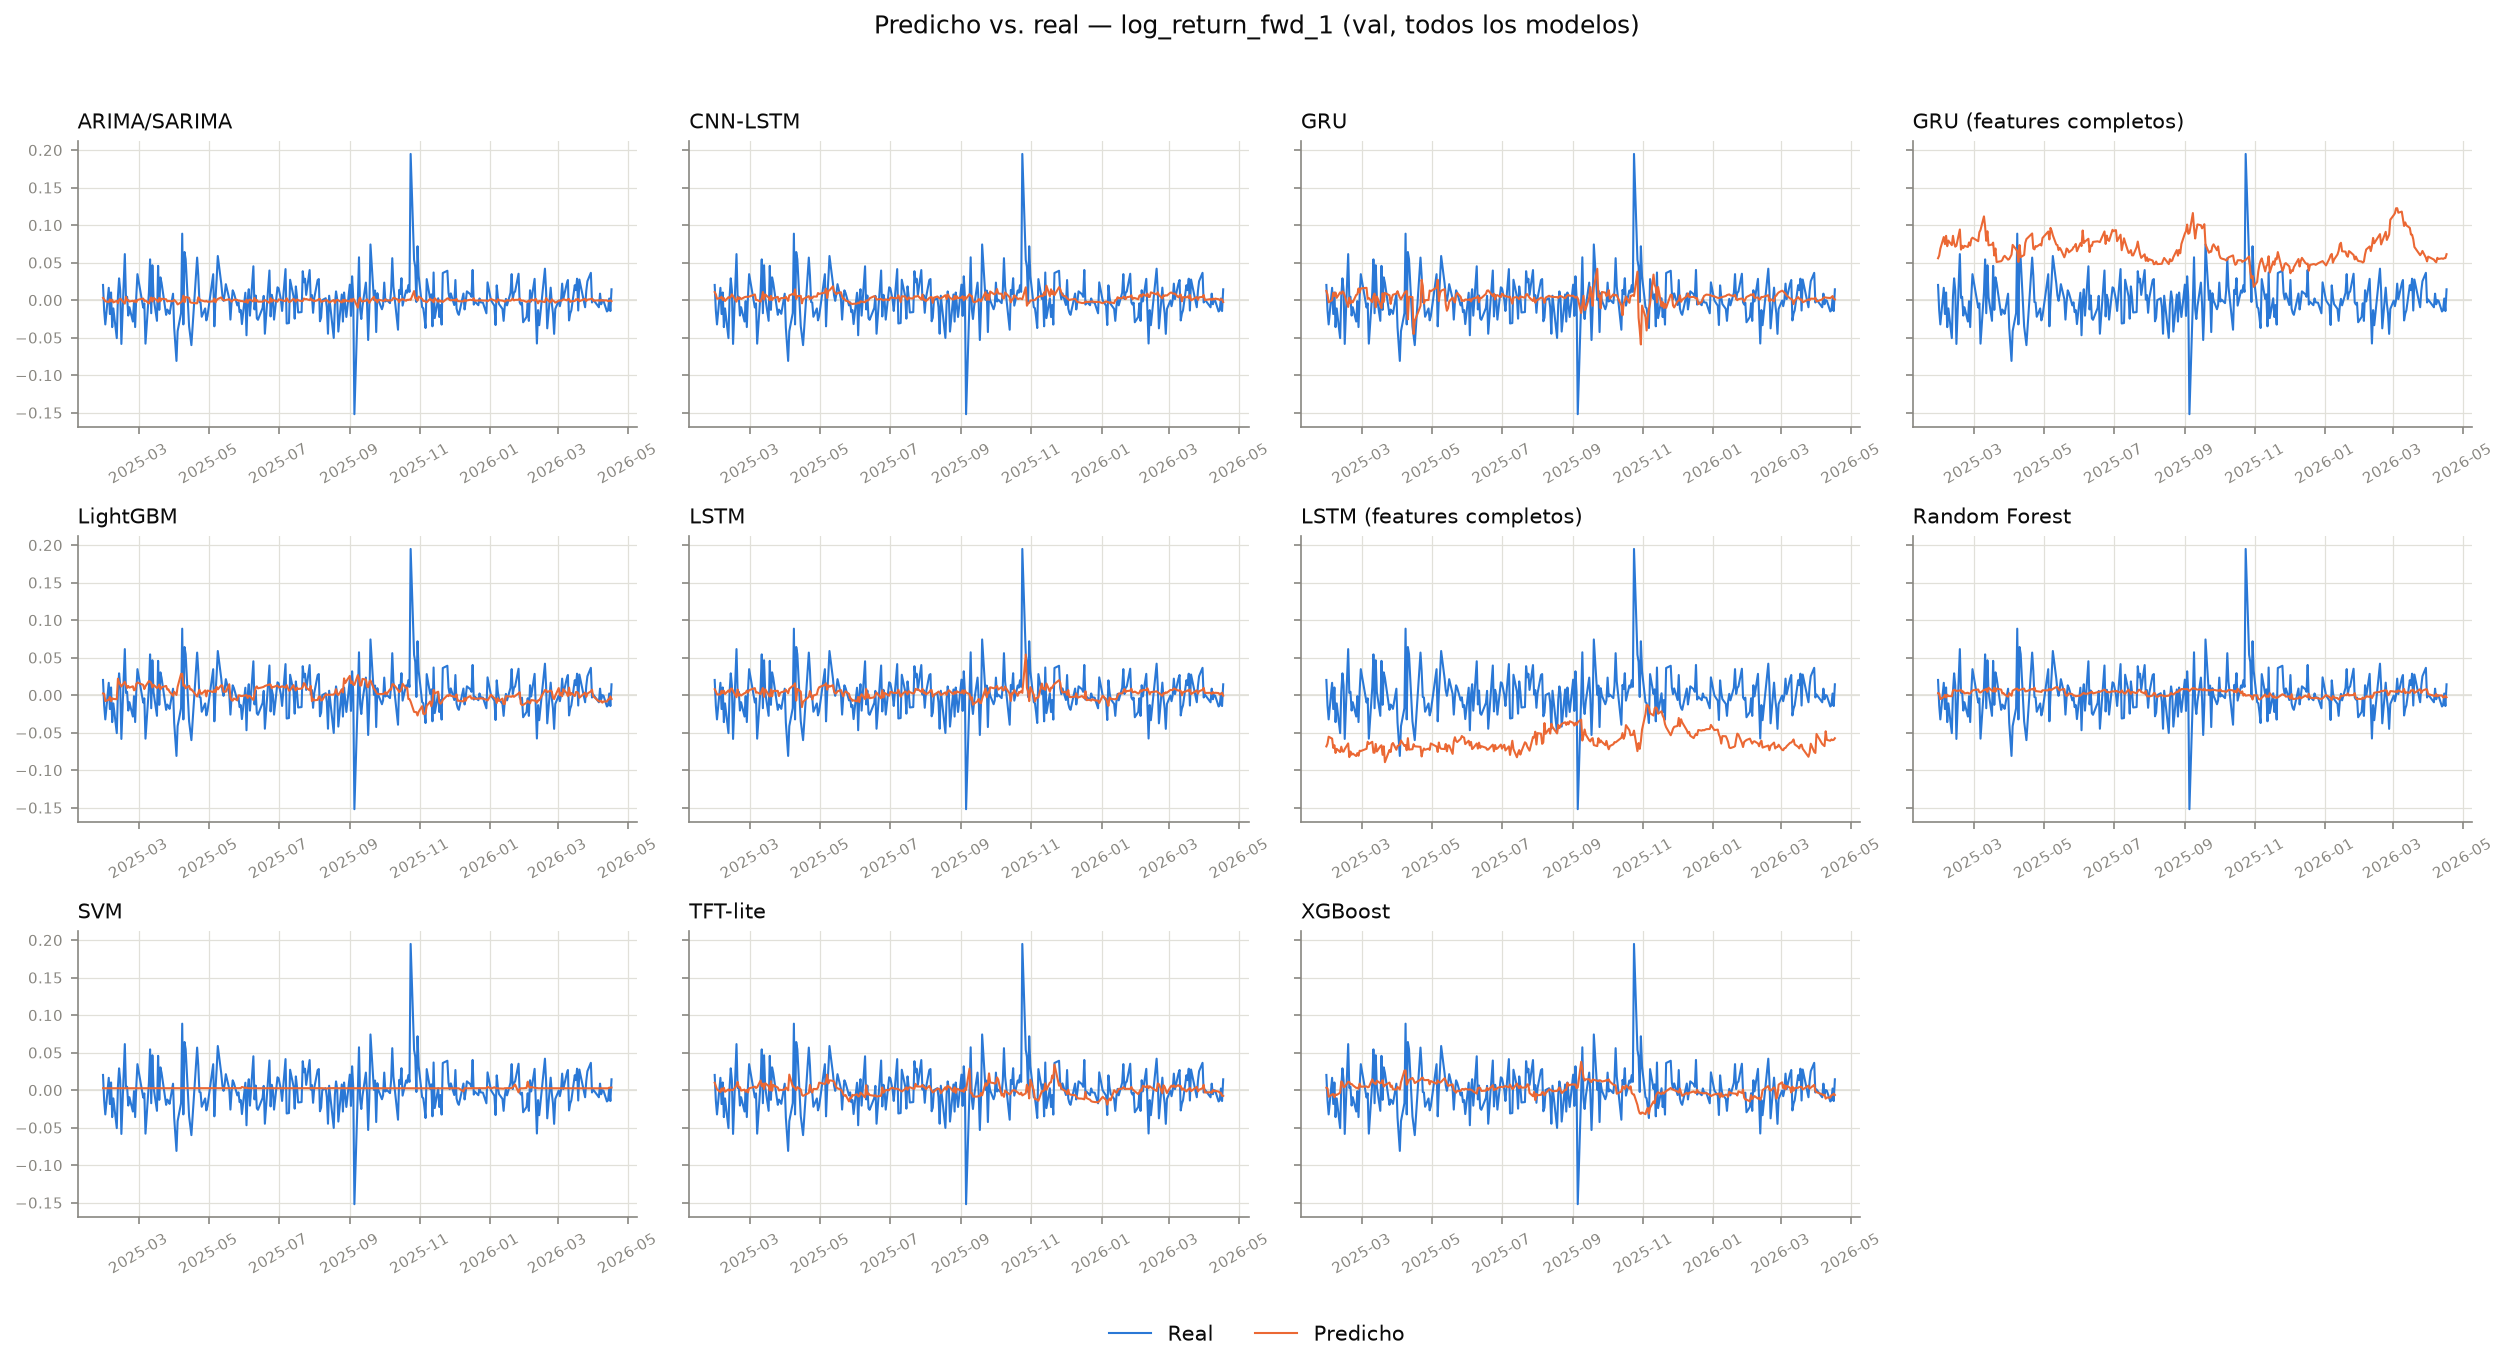
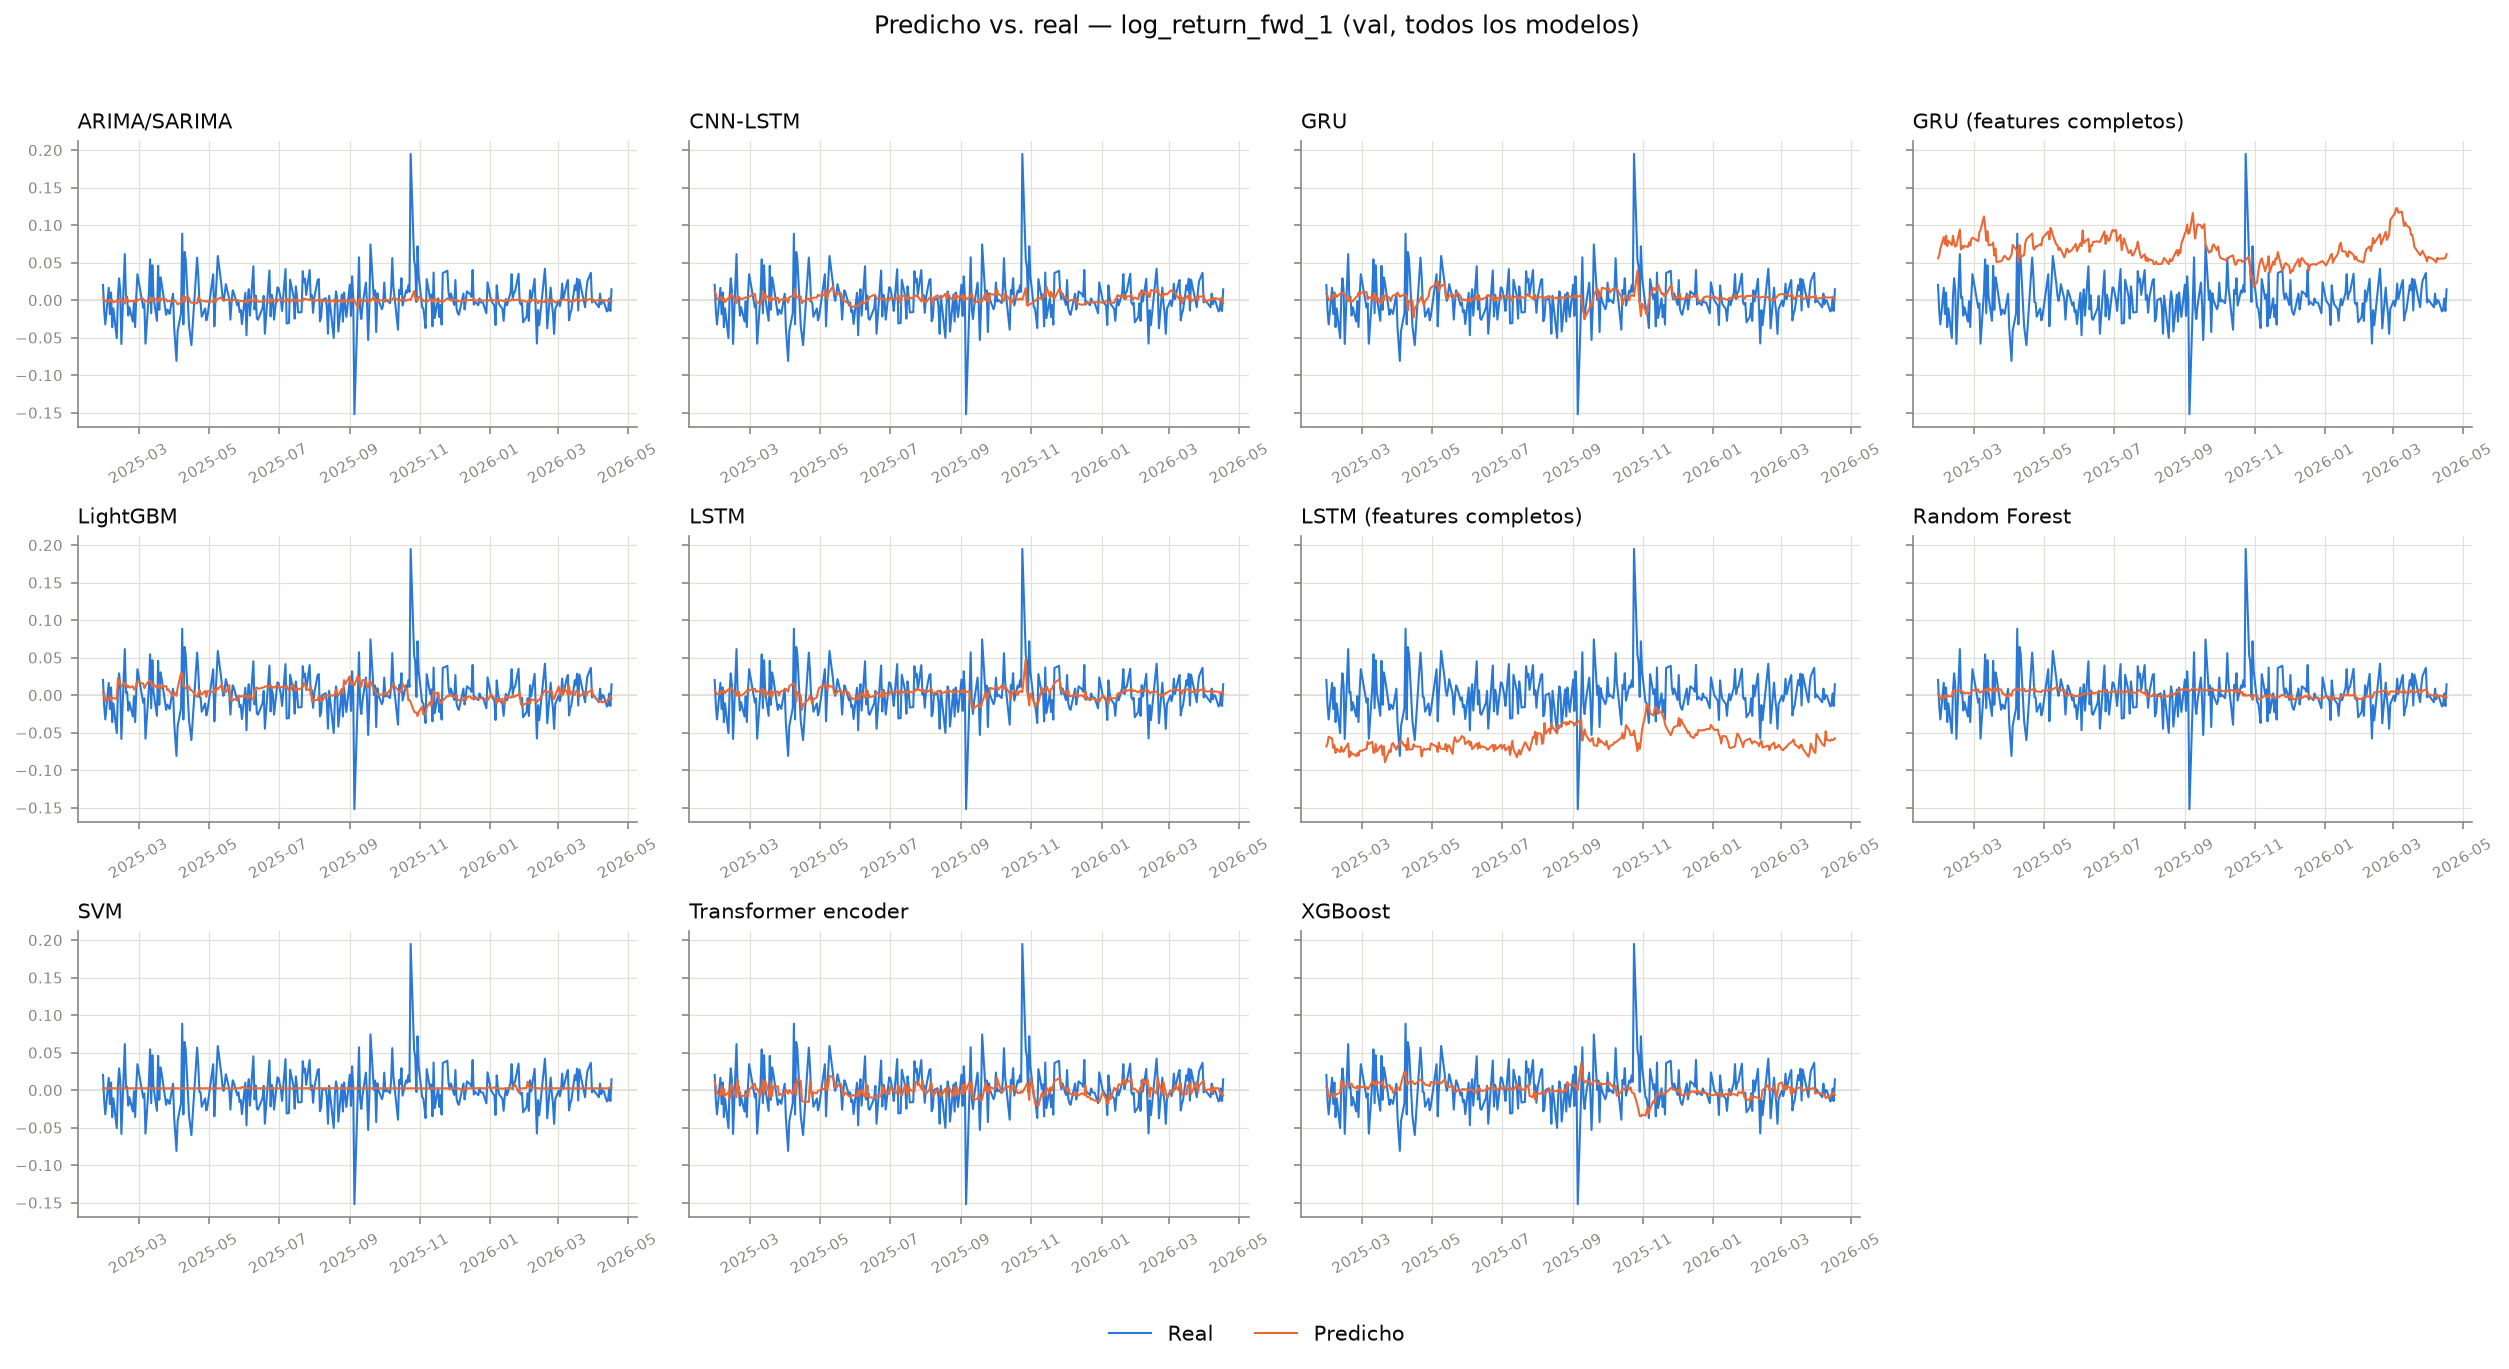
Renombra TFT-lite a Transformer encoder en las figuras de resultados
Cambia solo la etiqueta legible del modelo en MODEL_REGISTRY (el key
  interno y los paths quedan iguales) y regenera las figuras de Cap. 5
  para que la leyenda coincida con el nombre usado en la tesis.

diff --git a/evaluation/results_loader.py b/evaluation/results_loader.py
@@ -88,7 +88,7 @@ MODEL_REGISTRY: list[ModelSpec] = [
         path_template=str(TRACK_B_DIR / "cnn_lstm_val_predictions_h{h}.parquet"),
     ),
     ModelSpec(
-        "tft_lite", "TFT-lite", TRACK_B_DL, "narrow",
+        "tft_lite", "Transformer encoder", TRACK_B_DL, "narrow",
         path_template=str(TRACK_B_DIR / "tft_lite_val_predictions_h{h}.parquet"),
     ),
 ]
